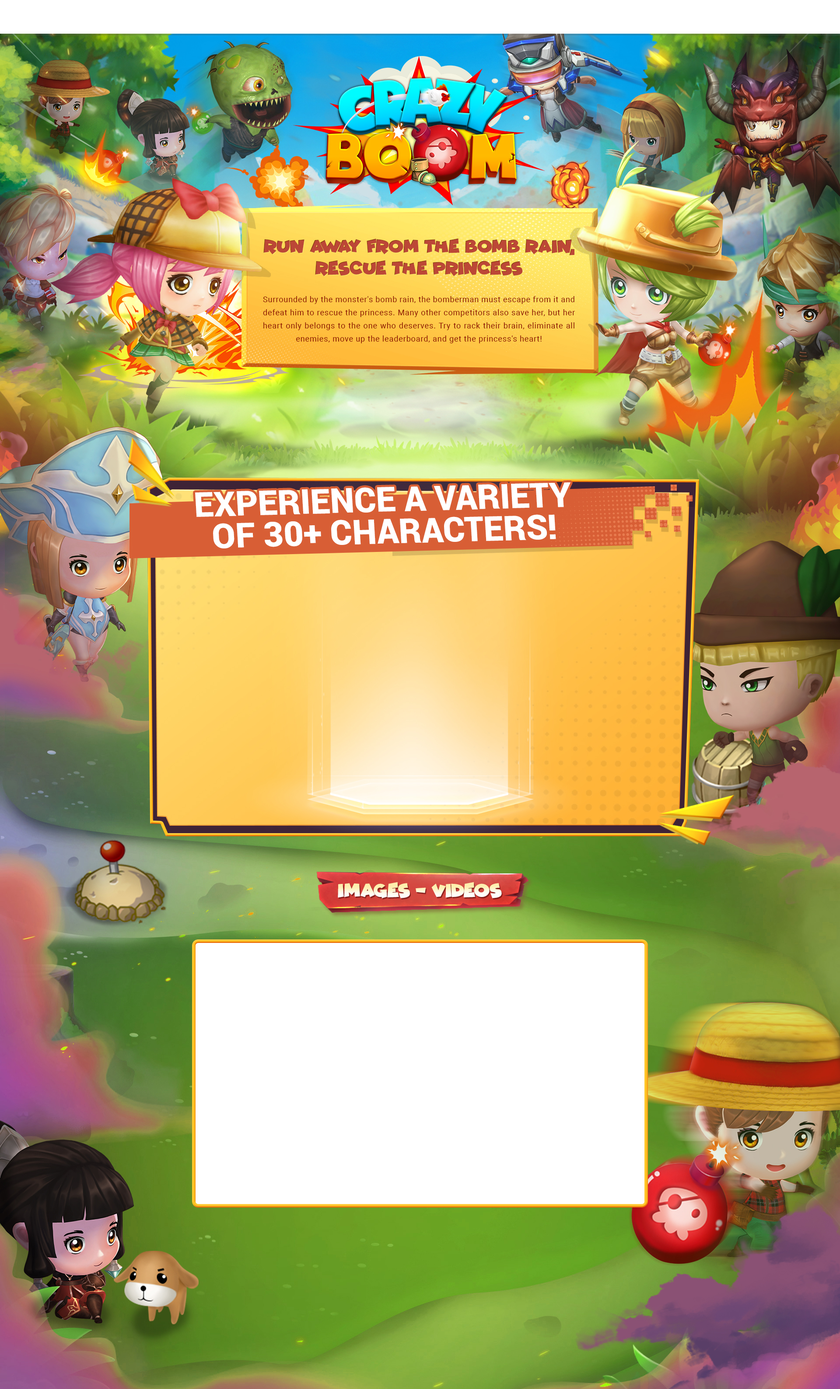
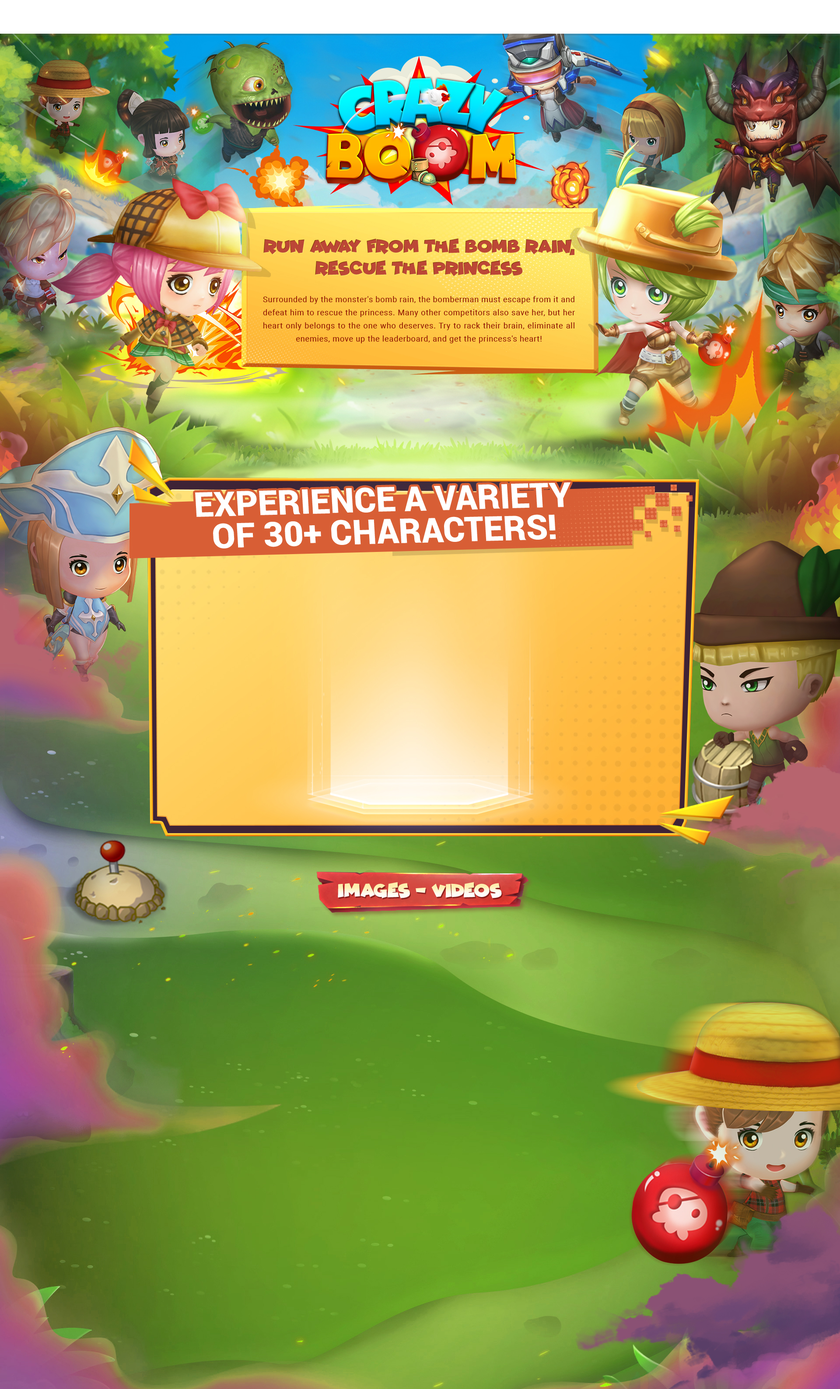
update slide

Changed region(s): [[0.2188, 0.6546, 0.7812, 0.8728], [0.0, 0.8105, 0.25, 0.9663]]

diff --git a/index.html b/index.html
@@ -47,7 +47,7 @@
                         alt=""></a></div>
         </div>
 
-        <div class="slider">
+        <!-- <div class="slider">
             <div>
                 <img src="/asset/img/photo_2023-01-05_11-29-07.jpg" alt="">
             </div>
@@ -62,6 +62,17 @@
             </div>
 
 
+        </div> -->
+
+
+        <div class="main">
+            <div class="slider slider-for">
+                <div><img class="banner" src="/asset/img/photo_2023-01-05_11-29-07.jpg" alt=""></div>
+                <div><img class="banner" src="/asset/img/photo_2023-01-05_11-29-07.jpg" alt=""></div>
+                <div><img class="banner" src="/asset/img/photo_2023-01-05_11-29-07.jpg" alt=""></div>
+                <div><img class="banner" src="/asset/img/photo_2023-01-05_11-29-07.jpg" alt=""></div>
+                <div><img class="banner" src="/asset/img/photo_2023-01-05_11-29-07.jpg" alt=""></div>
+            </div>
         </div>
 
 

diff --git a/asset/css/index.css b/asset/css/index.css
@@ -138,17 +138,29 @@ a {
 
 
 /* slider */
+.main {
+    position: absolute;
+    top: 68%;
+    left: 50%;
+    transform: translateX(-50%);
+    width: 59vw;
+    height: 35vw;
+    /* display:block; */
+    /* margin:0 auto; */
+    background-image: url(/asset/img/bg-p3.png);
+    background-repeat: no-repeat;
+    background-size: 100%;
+    padding-top: 1vw;
+  }
+
 
 .slider{
-    position: absolute;
-    display: flex;
-    top: 106.3vw;
-    left: 49.3%;
-    transform: translate(-50%);
-    width: 50vw;
-    height: 30vw;
+
 }
 
+.next-img{
+    width: 3rem;
+}
 .slider.slick-initialized.slick-slider {
     display: flex;
 }
@@ -160,24 +172,7 @@ button.slick-next.slick-arrow {
 }
 
 
-
-.slider_item {
-  
-  
-}
-
-.slider_item-img{
-    height: 30vw;
-  
-}
-
-
-
-
-/* end slider */
-
-
-.next-img{
-    width: 50px;
-    height: 50px;
+.main .banner {
+    width: 58vw;
+    /* height: auto; */
 }

diff --git a/asset/js/js.js b/asset/js/js.js
@@ -1,4 +1,3 @@
-
 //------- responsive mobile
 var jsVer = 15;
 var phoneWidth = parseInt(window.screen.width);
@@ -38,7 +37,15 @@ $(document).ready(function(){
         nextArrow: "<img class='next-img' src='/asset/img/caret-right-solid.svg' >",
         prevArrow: "<img class='next-img' src='/asset/img/caret-left-solid.svg' >",
       });   
-  });
+});
 
 
+
+ $('.slider-for').slick({
+   slidesToShow: 1,
+   slidesToScroll: 1,
+   arrows: true,
+   fade: true,
+   dots: true
+ });
 
